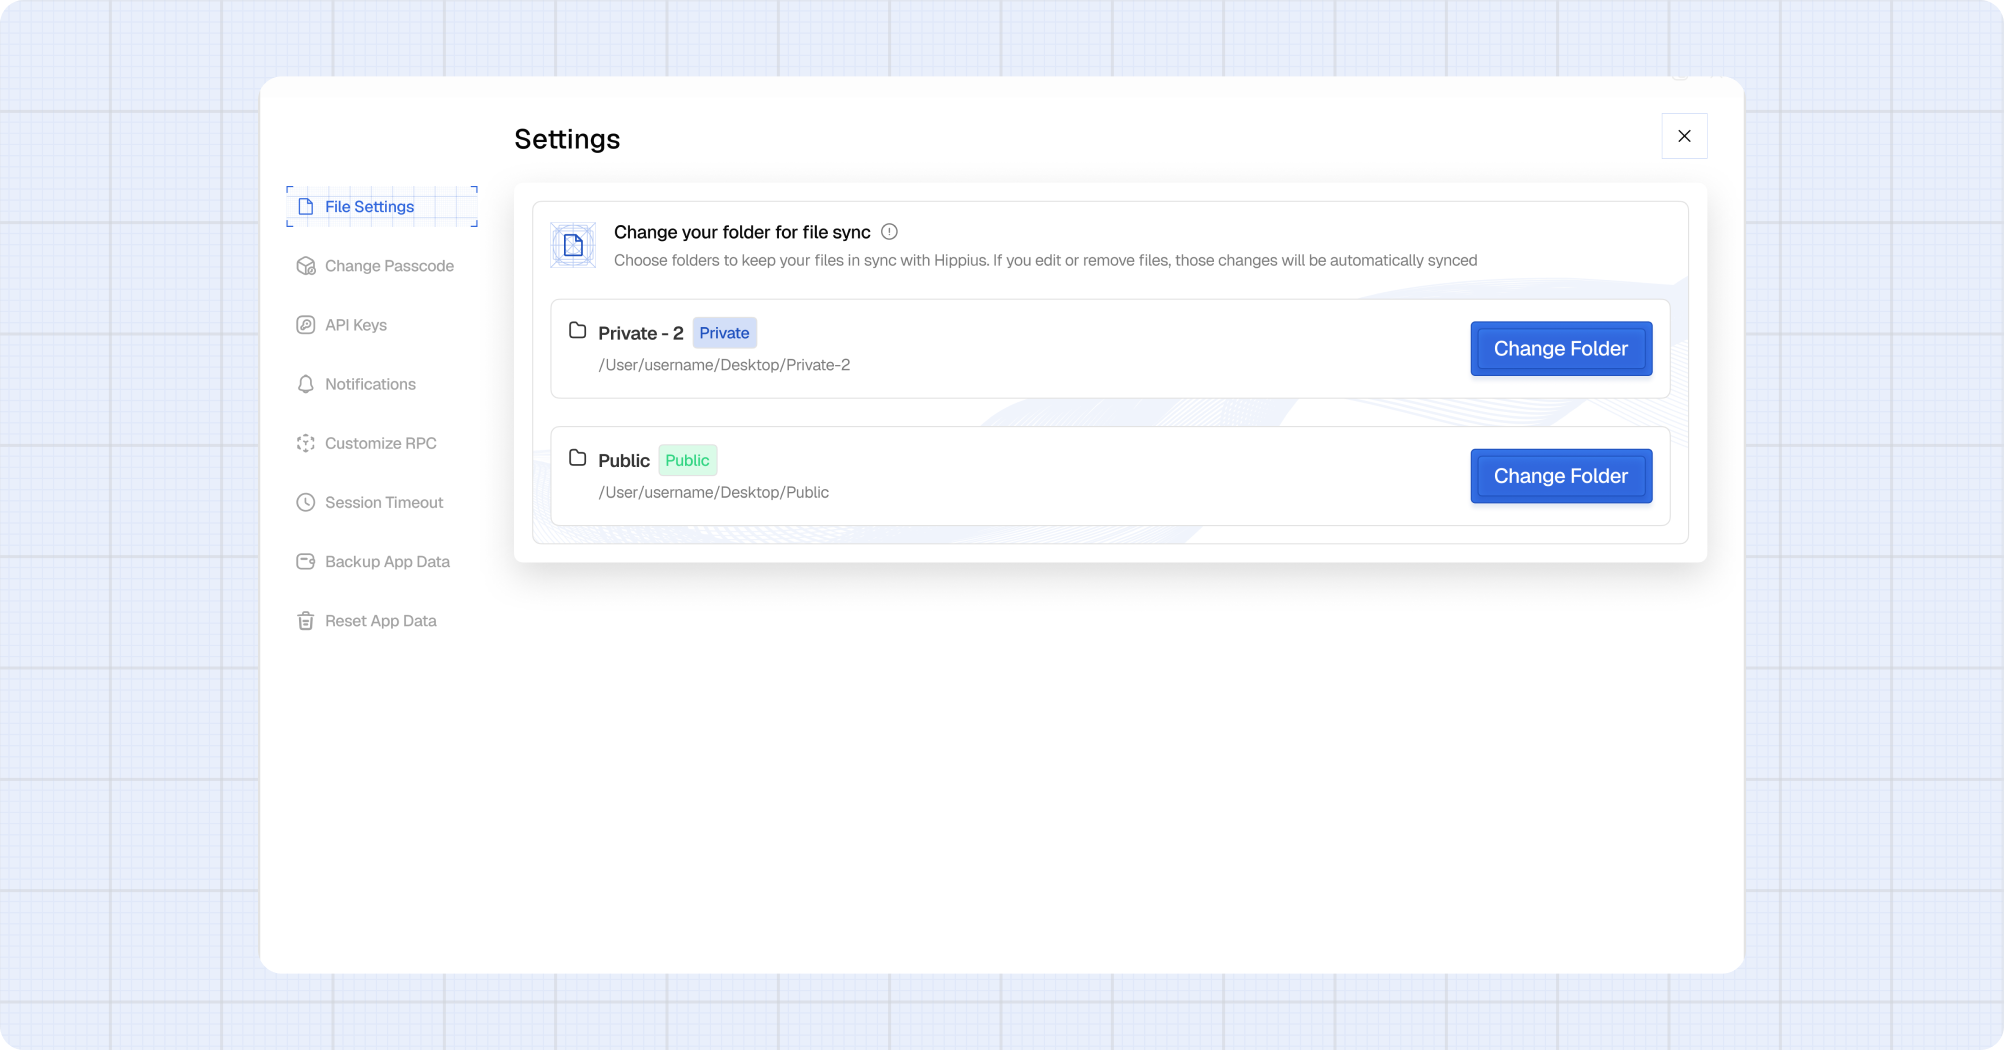
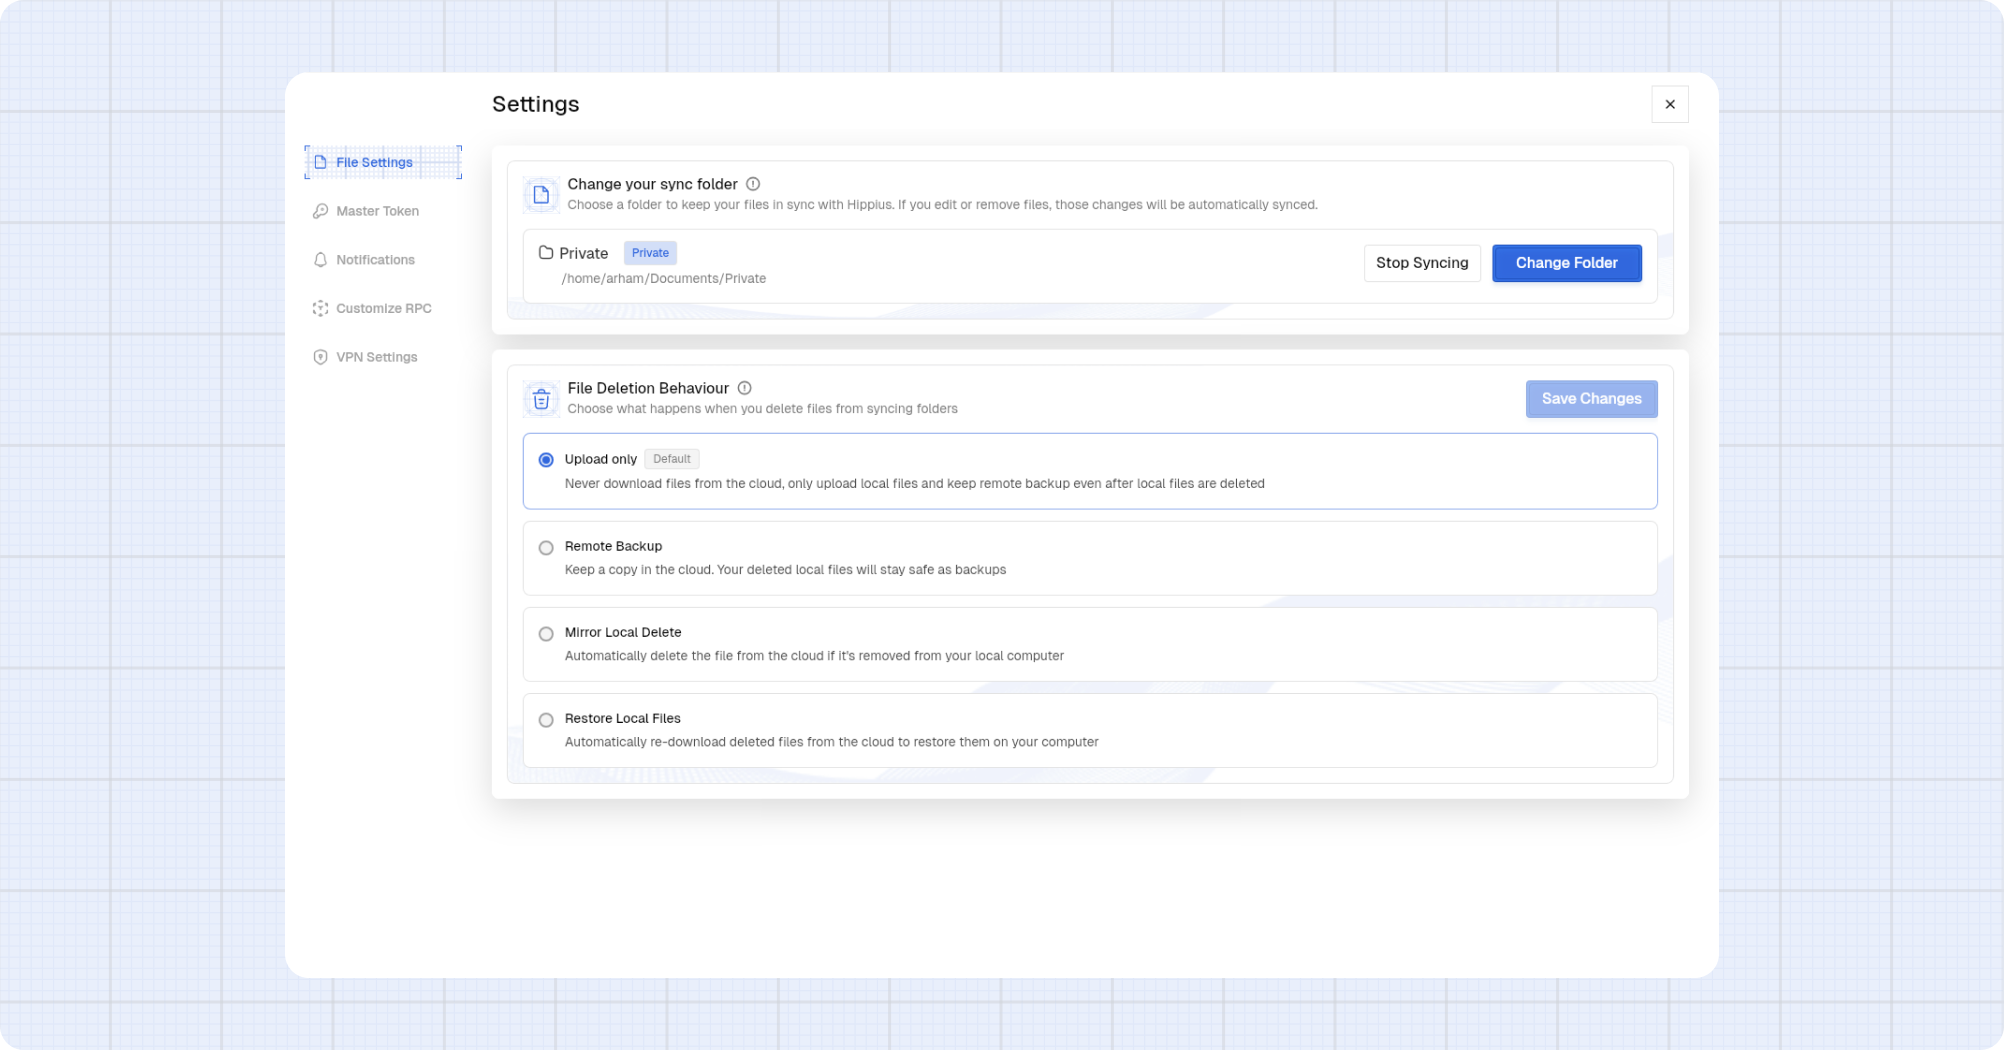
Update the Desktop app documentation for file system, app settings

diff --git a/src/components/ui/icons/index.ts b/src/components/ui/icons/index.ts
@@ -56,3 +56,4 @@ export { default as KeySquare } from "./key-square";
 export { default as Key } from "./key";
 export { default as WalletAdd } from "./wallet-add";
 export { default as Billing } from "./billing";
+export { default as ShieldTick } from "./shield-tick";

diff --git a/docs/use/desktop/settings.md b/docs/use/desktop/settings.md
@@ -10,7 +10,6 @@ import DocAccordion, { DocAccordionItem } from '@site/src/components/DocAccordio
 import Ordered from '@site/src/components/Ordered';
 import BgStyledIconWithText from '@site/src/components/BgStyledIconWithText';
 import BgStyledText from '@site/src/components/BgStyledText';
-import Icon from '@site/src/components/Icon';
 
 <DocAccordion defaultValue="file-settings">
 
@@ -21,93 +20,63 @@ File Settings
 </>
 <>
 
-<p>In File settings, select and change folder for private and public syncing.<br/>
-If files are edited or removed, those changes will be synced automatically.</p>
+    ### Selecting Sync Folder
+
+    <p>Select a folder on your device to sync with Hippius. Changes made in this folder will automatically sync to the cloud.</p>
 
     <Ordered>
       <li>Click on <BgStyledIconWithText text="Settings" icon="Settings" />.</li>
       <li>Click on <BgStyledIconWithText text="File Settings" icon="File" />.</li>
-      <li>Choose to change either private or public folder.</li>
-      <li>Choose the new folder you want to use and click <BgStyledText>Sync Folder</BgStyledText>.</li>
+      <li>Review the current sync folder path.</li>
+      <li>Click <BgStyledText>Change Folder</BgStyledText> to select a new location. The folder is automatically saved once selected.</li>
+      <li>To pause syncing, click <BgStyledText>Stop Syncing</BgStyledText>.</li>
     </Ordered>
+
+    <p>This folder serves as your private sync path, ensuring secure and private synchronization between your device and Hippius.</p>
+
+    ### File Deletion Behavior Settings
+
+    <p>Configure how file deletions are handled between your local device and the cloud.</p>
+
+    <Ordered>
+      <li>Under <strong>File Deletion Behaviour</strong>, choose how deletions should be handled.</li>
+      <li>Click <BgStyledText>Save Changes</BgStyledText> to apply your deletion behavior settings.</li>
+    </Ordered>
+
+    <p><strong>File Deletion Behaviour options:</strong></p>
+    <ul>
+      <li><strong>Upload only (Default)</strong>: Never download deletions; keep cloud backups even if local files are removed.</li>
+      <li><strong>Remote Backup</strong>: Keep a copy in the cloud; local deletions do not remove cloud files.</li>
+      <li><strong>Mirror Local Delete</strong>: Delete cloud files when you delete them locally.</li>
+      <li><strong>Restore Local Files</strong>: Re-download deleted files from the cloud to your device.</li>
+    </ul>
 
     ![File settings screen](/img/desktop/settings/settings-file.png)
 
 </>
 </DocAccordionItem>
 
-## Change Passcode
+## Master Token
 
-<DocAccordionItem value="change-passcode">
+<DocAccordionItem value="master-token">
   <>
- Change Passcode
-
-</>
-<>
-
-<p>Your passcode encrypts your access key and secures your data. Only you can change it, keeping you in complete control of your access and security. It is recommended to use a strong password.</p>
+  Master Token
+  </>
+  <>
+    <p>Your master token authenticates API requests to the Hippius platform.</p>
 
     <Ordered>
       <li>Click on <BgStyledIconWithText text="Settings" icon="Settings" />.</li>
-      <li>Click on <BgStyledIconWithText text="Change Passcode" icon="WalletAdd" />.</li>
-      <li>Enter your current passcode.</li>
-      <li>Enter your desired passcode and re-enter it for confirmation.</li>
-      <li>Save your changes.</li>
+      <li>Click on <BgStyledIconWithText text="Master Token" icon="KeySquare" />.</li>
+      <li>Copy the token using the copy icon.</li>
+      <li>Use the <strong>Token Usage</strong> field as a reference for the Authorization header.</li>
     </Ordered>
 
-    ![Change passcode modal](/img/desktop/settings/settings-passcode.png)
+    :::warning Keep your master token secure
+    Anyone with this token can access your account. Treat it like a password.
+    :::
 
-</>
-</DocAccordionItem>
-
-## API Keys
-
-<DocAccordionItem value="sub-accounts">
-  <>
-  API Keys
-  </>
-  <>
-    <p>API keys allow for S3 operations and do not allow for any other party to have access to your account.</p>
-
-    <Ordered>
-      <li>Click on the <BgStyledIconWithText text="Settings" icon="Settings" />.</li>
-      <li>Click <BgStyledIconWithText text="API Keys" icon="KeySquare" />.</li>
-    </Ordered>
-
-    ![Sub accounts table](/img/desktop/settings/settings-sub-accounts.png)
-
-    ### Create a New API Key
-
-    <Ordered>
-      <li>Click on <BgStyledText>Add API Key</BgStyledText>.</li>
-      <li>Enter the address and select the role assigned to this API Key.</li>
-      <li>Click on the <BgStyledText>Add API Key</BgStyledText> button.</li>
-    </Ordered>
-
-    ![Create sub account modal](/img/desktop/settings/settings-sub-account-create.png)
-
-    ### Generate API Key
-
-    <Ordered>
-      <li>Click on <BgStyledText>Generate New API Key</BgStyledText>.</li>
-      <li>Save the account API key.</li>
-      <li>Select the permission for the API Key.</li>
-      <li>Click on <BgStyledText>Add API Key</BgStyledText> to save.</li>
-      <li>Enter the Seed phrase and passcode.</li>
-    </Ordered>
-
-    ![Generate sub account modal](/img/desktop/settings/settings-sub-account-generate.png)
-
-    ### Deleting Sub Accounts
-
-    <Ordered>
-      <li>Click on <BgStyledIconWithText icon="Trash" /> button.</li>
-      <li>Confirm the action.</li>
-    </Ordered>
-
-    **Note that this action is irreversible.**
-
-    ![Delete sub account confirm](/img/desktop/settings/settings-sub-account-delete.png)
+    ![Master token screen](/img/desktop/settings/settings-master-token.png)
 
 </>
 </DocAccordionItem>
@@ -119,15 +88,27 @@ If files are edited or removed, those changes will be synced automatically.</p>
    Notifications
   </>
   <>
-    <p>You will receive in-app notifications when your credits are low or when your uploads are complete.</p>
+    <p>Control which in-app notifications you receive and manage email preferences.</p>
 
     <Ordered>
       <li>Click on <BgStyledIconWithText text="Settings" icon="Settings" />.</li>
       <li>Click on <BgStyledIconWithText text="Notifications" icon="Notification" />.</li>
-      <li>Choose your notification preferences.</li>
+      <li>Select the notification types you want, such as <strong>Credits</strong> and <strong>Files</strong>.</li>
+      <li>Click <BgStyledText>Save</BgStyledText>.</li>
     </Ordered>
 
     ![Notifications screen](/img/desktop/settings/settings-notifications.png)
+
+    ### Email Preferences
+
+    <Ordered>
+      <li>Click <BgStyledText>Email Notifications</BgStyledText> in the notifications panel.</li>
+      <li>Toggle <strong>Receive Email Notifications</strong> on or off.</li>
+      <li>Select the email types you want: <strong>Low credit balance alerts</strong>, <strong>Zero balance alerts</strong>, and <strong>Marketing emails & newsletter</strong>.</li>
+      <li>Click <BgStyledText>Save Changes</BgStyledText>.</li>
+    </Ordered>
+
+    ![Email notification preferences](/img/desktop/settings/email-preference.png)
 
 </>
 </DocAccordionItem>
@@ -153,58 +134,23 @@ If files are edited or removed, those changes will be synced automatically.</p>
 </>
 </DocAccordionItem>
 
-## Session Timeout
+## VPN Settings
 
-<DocAccordionItem value="session-timeout">
+<DocAccordionItem value="vpn-settings">
   <>
-  Session Timeout
+  VPN Settings
   </>
   <>
-    <p>The session timeout determines how long you stay signed in before being automatically logged out. We recommend choosing a duration that balances security and convenience.</p>
-
-    <p><strong>Note: The passcode is only required on the first login. The app will keep you signed in for the set duration (default 24 hours, adjustable) without prompting again during that period.</strong></p>
-
-    ![Session Timeout screen](/img/desktop/settings/settings-session-timeout.png)
-
-</>
-</DocAccordionItem>
-
-## Backup App Data
-
-<DocAccordionItem value="backup">
-  <>
- Backup App Data
-  </>
-  <>
-    <p>Regular backups help you recover your data stored on this device if you lose access to it. Save your backup ZIP file in a secure location.</p>
+    <p>Configure how the VPN behaves when the desktop app starts.</p>
 
     <Ordered>
       <li>Click on <BgStyledIconWithText text="Settings" icon="Settings" />.</li>
-      <li>Click on the <BgStyledIconWithText text="Backup App Data" icon="Wallet" />.</li>
-      <li>Click the <BgStyledText>Download</BgStyledText> button to get your saved phrase.</li>
+      <li>Click on <BgStyledIconWithText text="VPN Settings" icon="ShieldTick" />.</li>
+      <li>Toggle <strong>Autoconnect on Startup</strong> to enable or disable automatic VPN connection.</li>
+      <li>Click <BgStyledText>Update</BgStyledText>.</li>
     </Ordered>
 
-    ![Backup app data screen](/img/desktop/settings/settings-backup.png)
-
-</>
-</DocAccordionItem>
-
-## Reset App
-
-<DocAccordionItem value="reset">
-  <>
-   Reset App 
-  </>
-  <>
-    <p>Use this option if you're experiencing issues or want to start fresh. Your blockchain data and files stored on the decentralized network remain secure and accessible after reset.</p>
-
-    <Ordered>
-      <li>Click on <BgStyledIconWithText text="Settings" icon="Settings" />.</li>
-      <li>Click <BgStyledIconWithText text="Reset App" icon="Trash" />.</li>
-      <li>Confirm this step in the modal that pops up and the reset will begin.</li>
-    </Ordered>
-
-    ![Reset app data modal](/img/desktop/settings/settings-reset.png)
+    ![VPN settings screen](/img/desktop/settings/vpn-settings.png)
 
 </>
 </DocAccordionItem>

diff --git a/docs/use/desktop/file-system.md b/docs/use/desktop/file-system.md
@@ -12,58 +12,36 @@ import Icon from '@site/src/components/Icon';
 
 ## Introduction
 
-Our file system is one of our core innovations, offering a unique, decentralized approach to storage. Designed to be efficient and accessible, it was built with a strong focus on security and privacy. Let’s get started.
+Our file system is one of our core innovations, offering a unique, decentralized approach to storage. Designed to be efficient and accessible, it was built with a strong focus on security and privacy. All files uploaded to Hippius are stored privately and encrypted for security. Let's get started.
 
-## Erasure Coding
+## Uploading Files
 
-To enable truly decentralized storage, we use erasure coding to split uploaded files into multiple chunks, which are then distributed across miners worldwide. You can track these chunks using our [CID Tracker](https://hipstats.com/cid-tracker/bafybeihfmsk2jmld2mtppgkiujllylgj7ixkfhl6hlkqmkisls6njs2toe). Simply copy and paste the CID in our tracker to view a detailed history of where each chunk has been hosted.
-
-![Upload Your Files modal](/img/desktop/file-system-erasure.png)
-
-## Private Files
-
-Private files take the default encryption key which can be changed in the [Encryption Key](/use/desktop/settings#encryption-key) section in the settings page. We advise uploading files or folders with personal information as [Private Files](#private-files) or [Private Folders](#uploading-private-folders).
-
-### Uploading Private Files {#uploading-private-files}
+Files uploaded to Hippius are automatically added to your sync folder and encrypted for security. This ensures your data remains private and protected.
 
 <Ordered>
   <li>Double click the <Icon /> icon to open the app.</li>
-  <li>Click on <BgStyledIconWithText text="Files" icon="DocumentText" /> and select <BgStyledText>Private</BgStyledText>.</li>
+  <li>Click on <BgStyledIconWithText text="Files" icon="DocumentText" />.</li>
   <li>Click the <BgStyledText>Upload File</BgStyledText> button.</li>
-  <li>Enter an encryption key to secure your files. If left blank, Hippius will automatically use the default encryption key.</li>
+  <li>Drag and drop or click to select one or more files to upload.</li>
   <li>Click the <BgStyledText>Upload File</BgStyledText> button in the modal to start the upload process.</li>
 </Ordered>
 
-### Uploading Private Folders {#uploading-private-folders}
+![Upload Your Files modal](/img/desktop/file-system-upload.png)
+
+:::info Private & Encrypted
+All files uploaded are stored privately and encrypted. Files are added to your sync folder and secured automatically.
+:::
+
+## Uploading Folders
+
+You can also upload entire folders to Hippius. Like individual files, folders are encrypted and synced securely.
 
 <Ordered>
   <li>Double click the <Icon /> icon to open the app.</li>
-  <li>Click on <BgStyledIconWithText text="Files" icon="DocumentText" /> and select <BgStyledText>Private</BgStyledText>.</li>
-  <li>Click <BgStyledText>Add Folder</BgStyledText> button.</li>
-  <li>Select the folder location and enter an optional encryption key.</li>
+  <li>Click on <BgStyledIconWithText text="Files" icon="DocumentText" />.</li>
+  <li>Click the <BgStyledText>Add Folder</BgStyledText> button.</li>
+  <li>Select the folder you want to upload.</li>
   <li>Click <BgStyledText>Upload Folder</BgStyledText> button in the modal to start the upload process.</li>
-</Ordered>
-
-## Public Files
-
-Public files do not use any encryption and are accessible to the public. We recommend making only non-sensitive or less important files public. If your files or folders contain personal information please upload them as [Private Files](#private-files) or [Private Folders](#uploading-private-folders).
-
-### Uploading Public Files {#uploading-public-files}
-
-<Ordered>
-  <li>Double click the <Icon /> icon to open the app.</li>
-  <li>Click on <BgStyledIconWithText text="Files" icon="DocumentText" /> and select <BgStyledText>Public</BgStyledText>.</li>
-  <li>Click <BgStyledText>Upload File</BgStyledText> button.</li>
-  <li>Click <BgStyledText>Upload File</BgStyledText> button in the modal to start the uploading process.</li>
-</Ordered>
-
-### Uploading Public Folders {#uploading-public-folders}
-
-<Ordered>
-  <li>Double click the <Icon /> icon to open the app.</li>
-  <li>Click on <BgStyledIconWithText text="Files" icon="DocumentText" /> and select <BgStyledText>Public</BgStyledText>.</li>
-  <li>Click <BgStyledText>Add Folder</BgStyledText> button.</li>
-  <li>Click <BgStyledText>Upload Folder</BgStyledText> button in the modal to start the uploading process.</li>
 </Ordered>
 
 **It usually takes some time to complete the upload to Hippius, but you can always monitor the upload progress.**

diff --git a/docs/use/desktop/referral-system.md b/docs/use/desktop/referral-system.md
@@ -1,6 +1,6 @@
 ---
 id: referral-system
-title: Hippius Referral System
+title: Hippius Referral System(Coming Soon)
 sidebar_label: Referral System
 slug: /use/desktop/referral-system
 description: 1
@@ -8,8 +8,10 @@ description: 1
 
 ## Sharing Your Referral Link
 
-Hippius rewards you with credits for sharing its software with others. There is no limit to the amount of credit you can earn from referrals.
+<!-- Hippius rewards you with credits for sharing its software with others. There is no limit to the amount of credit you can earn from referrals.
 
 Once you generate your referral link, you can copy and share it with others to get them to start using the best decentralized storage for a secure and accessible file hosting solution.
 
-![Referral dashboard with copy link action](/img/desktop/referral-system.png)
+![Referral dashboard with copy link action](/img/desktop/referral-system.png) -->
+
+The Hippius Referral System is currently under development and will be available soon. Stay tuned for updates!
